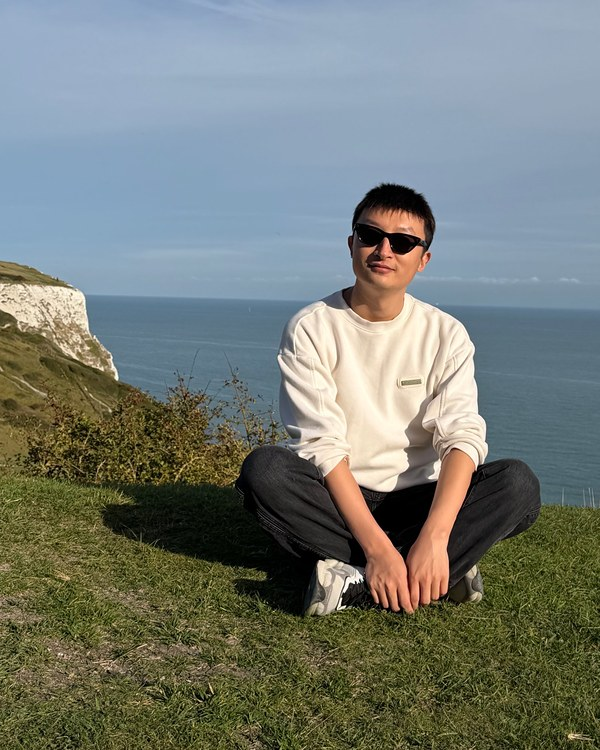
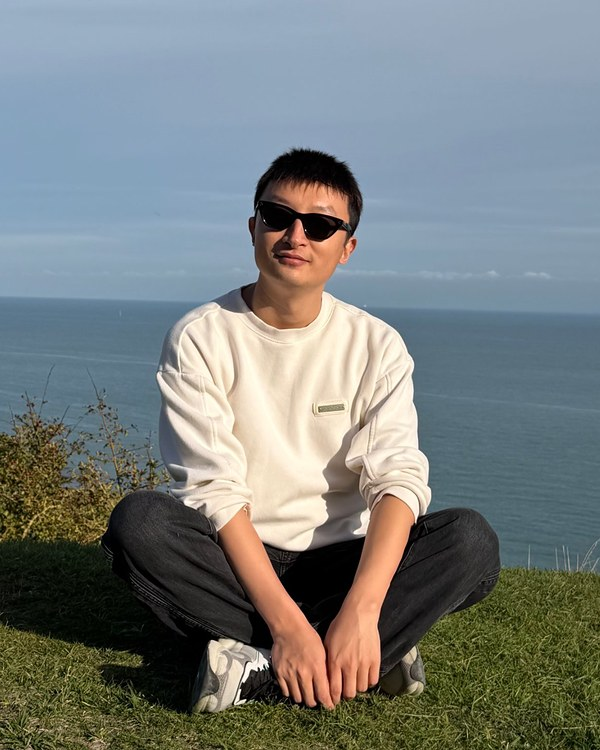
Recrop profile photo: larger and centred
Claude-Session: https://claude.ai/code/session_01SG3xAQas8xF26nyuNaWMB9

diff --git a/index.html b/index.html
@@ -134,7 +134,7 @@ footer { border-top: 1px solid var(--rule); padding-block: 22px 40px; color: var
   <aside class="profile">
     <div class="photo">
       <span aria-hidden="true">WL</span>
-      <img src="profile.jpg?v=3" alt="Weihe Li" data-fallback>
+      <img src="profile.jpg?v=4" alt="Weihe Li" data-fallback>
     </div>
     <h1>Weihe Li</h1>
     <p class="aff">Postdoctoral Researcher,<br>Department of Computing,<br>Imperial College London.</p>
